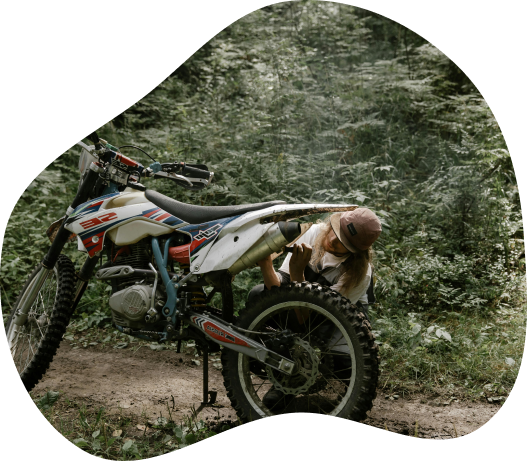
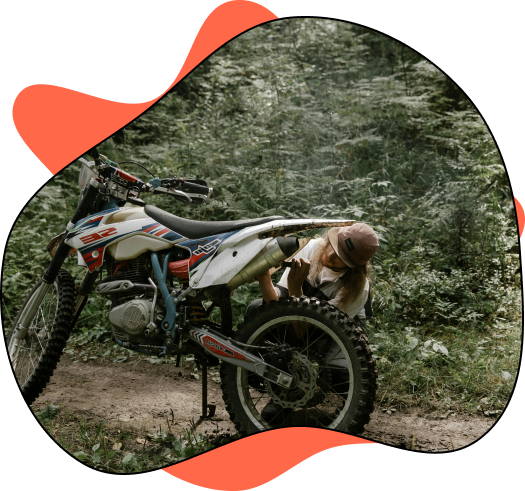
updated styling

diff --git a/frontend/ride-on/src/components/hero/Hero.jsx b/frontend/ride-on/src/components/hero/Hero.jsx
@@ -3,47 +3,17 @@ import Container from 'react-bootstrap/esm/Container';
 import { Row, Col } from 'react-bootstrap';
 import Button from 'react-bootstrap/esm/Button';
 import Image from 'react-bootstrap/esm/Image';
-import { Link } from 'react-router-dom';
-
 
 function Hero () {
 
-
-
     return (
         <>  
-                {/* <Container fluid={true}>
-                    <Row>
-                        <div className="heroBackground">
-                            <Image src="./assets/moto.jpg" alt="Picture of motorcyclist riding through the mountains" className="heroImg" />
-                        </div>
-                        
-
-                        <div className="heroTextContainer">
-                            <div className="heroText">                    
-                                <h1 className='heading'>Embrace the Adventure</h1>
-                                <h4 className='subheading'>Find the perfect bike for your next journey, hassle-free rentals from riders, for riders.</h4>
-                            </div>                        
-                            <Button 
-                                variant="light" 
-                                size="lg" 
-                                className="Sign Up"
-                                as={Link}
-                                to="/register"
-                                >
-                                    Sign Up
-                                </Button>
-
-                        </div>
-
-                    </Row>    
-                </Container> */}
             <Container fluid className='heroContainer'> 
                 <Row>        
-                    <Col xs={11} md={6} lg={6} className='hero-text-column'>
+                    <Col xs={11} md={6} lg={5} className='hero-text-column'>
                         <div className="text-container">
-                            <h1>Embrace the Adventure.</h1>
-                            <h3>Find the perfect bike for your next journey, hassle-free rentals from riders, for riders.</h3>
+                            <h1>Embrace the <strong className='adventure'>Adventure.</strong></h1>
+                            <h4>Find the perfect bike for your next journey, <strong>hassle-free rentals from riders, for riders.</strong></h4>
                             <Button 
                                 variant="success" 
                                 size="md" 
@@ -55,7 +25,7 @@ function Hero () {
                         </div>
                     </Col>
                     <Col xs={12} md={6} lg={5} className='image-column'>
-                        <Image src='../assets/se-shape.png' alt='' className='motocross-image' fluid/>
+                        <Image src='../assets/rider-shape-3.png' alt='' className='motocross-image' fluid/>
                     </Col>
                 </Row>
             </Container>

diff --git a/frontend/ride-on/src/components/hero/hero.css b/frontend/ride-on/src/components/hero/hero.css
@@ -1,71 +1,9 @@
-/* .ctaHeading{
-    color: white;
-}
-
-
-.heroBackground{
-    display: flex;
-    height: 70vh;
-    width: 100%;
-    position: relative;
-}
-
-.heroBackground::before {
-    content: "";
-    position: absolute;
-    top: 0;
-    left: 0;
-    width: 100%;
-    height: 100%;
-    background-color: rgba(0, 0, 0, 0.4); 
-}
-
-
-
-.heroImg{
-    width: 100%;
-    margin: 0;
-    overflow: hidden;
-    object-fit: cover; 
-}
-
-.heroTextContainer{
-    position: absolute;
-    top: 40%;
-    left: 50%;
-    width: 70vw;
-    transform: translate(-50%, -50%);
-    border-radius: 20px;
-    padding: 20px;
-    font-size: 50px;
-    text-align: center;
-}
-
-.heading{
-    font-weight: bold;
-    color: white;
-    text-align: centre;
-    margin: 0;
-    padding: 10px;
-    margin-bottom: 10px;
-    opacity: 1;
-    text-shadow: 0 0 10px rgba(0, 0, 0, 1);
-}
-
-.subheading{
-    font-weight: bold;
-    color: white;
-    text-align: center;
-    margin: 10;
-    padding: 10px;
-    opacity: 1;
-} */
-
-/* NEW STYLES */
-
 .heroContainer{
+
     padding-top: 100px;
     padding-bottom: 20px;
+    align-items: center;
+    justify-content: center;
     /* background-color: #f5f5f5; */
     background-color: #e5e5f7;
     opacity: 1;
@@ -87,4 +25,6 @@
     margin: auto;
 }
 
-
+.adventure{
+    text-decoration: underline;
+}

diff --git a/frontend/ride-on/src/components/about/About.jsx b/frontend/ride-on/src/components/about/About.jsx
@@ -11,7 +11,7 @@ function About(){
                     <Image src='../assets/se-shape.png' alt='' className='motocross-image' fluid/>
                 </Col>
                     
-                <Col xs={12} md={6} lg={8} className='text-column'>
+                <Col xs={12} md={6} lg={6} className='text-column'>
                     <div className="text-container">
                         <h2>By Riders, For Riders.</h2>
                         <p>

diff --git a/frontend/ride-on/src/components/about/about.css b/frontend/ride-on/src/components/about/about.css
@@ -1,6 +1,6 @@
 .aboutContainer{ 
     background-color: #f5f5f5;
-    padding: 40px;
+    padding: 60px;
 }
 
 .text-column{
